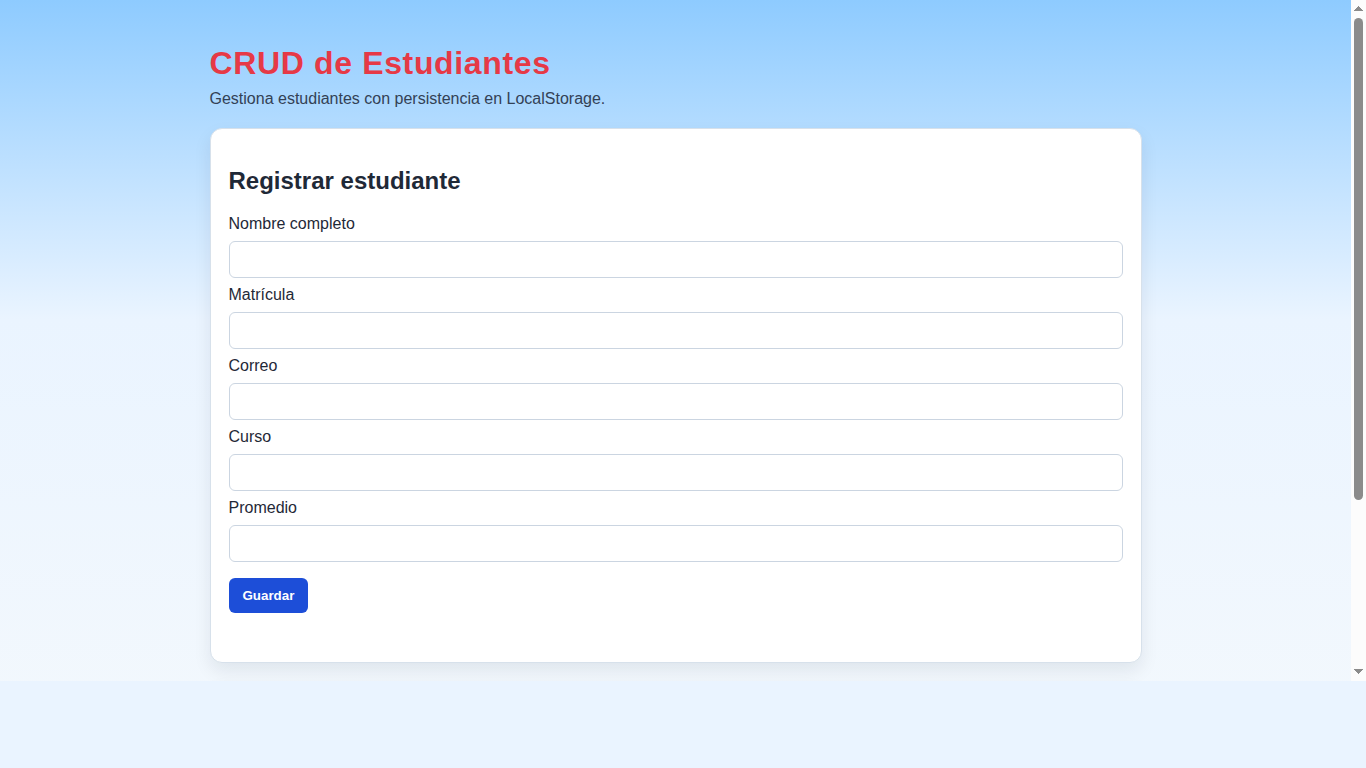
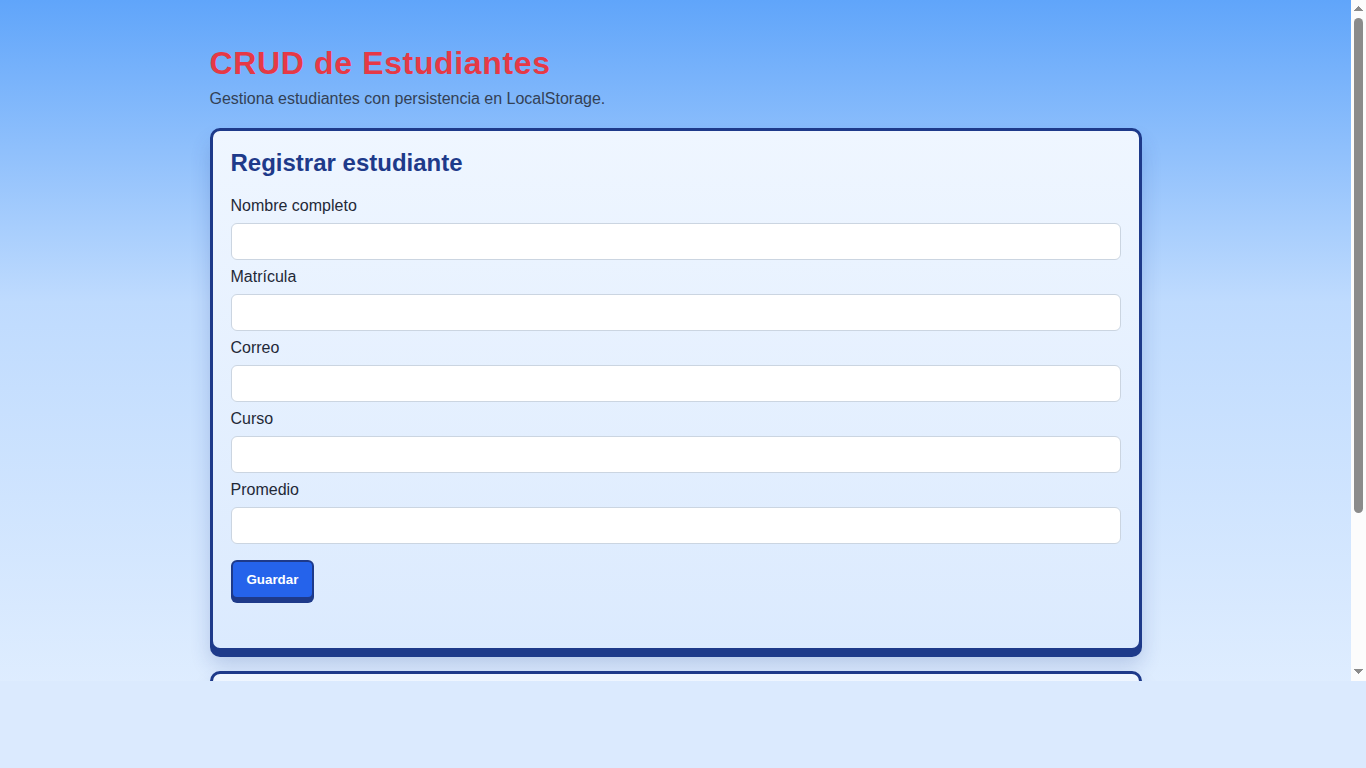
style: mario blocks blue theme and form behavior docs
Agent-Logs-Url: https://github.com/angelOcampoM/CrudTecnologico/sessions/9ce7e6f3-032a-4a75-b50c-0ddae8d89d77

diff --git a/styles.css b/styles.css
@@ -1,11 +1,12 @@
 :root {
   font-family: 'Trebuchet MS', 'Segoe UI', Arial, sans-serif;
   color: #1f2937;
-  background: #eaf4ff;
-  --surface: #ffffff;
-  --line: #d7e1eb;
-  --primary: #1d4ed8;
-  --secondary: #fbbf24;
+  background: #dbeafe;
+  --surface: #eff6ff;
+  --line: #93c5fd;
+  --primary: #2563eb;
+  --primary-deep: #1e3a8a;
+  --secondary: #60a5fa;
   --danger: #e63946;
 }
 
@@ -15,7 +16,7 @@
 
 body {
   margin: 0;
-  background: linear-gradient(180deg, #8ecbff 0%, #eaf4ff 35%, #f7fafc 100%);
+  background: linear-gradient(180deg, #60a5fa 0%, #bfdbfe 34%, #eff6ff 100%);
 }
 
 .container {
@@ -37,12 +38,26 @@ h1 {
 }
 
 .card {
+  position: relative;
   background: var(--surface);
-  border-radius: 12px;
+  border-radius: 10px;
   padding: 18px;
   margin-bottom: 20px;
-  border: 1px solid var(--line);
-  box-shadow: 0 8px 18px rgba(17, 24, 39, 0.08);
+  border: 3px solid var(--primary-deep);
+  box-shadow:
+    0 6px 0 var(--primary-deep),
+    0 14px 20px rgba(30, 58, 138, 0.2);
+  background-image: linear-gradient(180deg, #eff6ff 0%, #dbeafe 100%);
+  transition: transform 0.15s ease;
+}
+
+.card:hover {
+  transform: translateY(-2px);
+}
+
+.card h2 {
+  margin-top: 0;
+  color: var(--primary-deep);
 }
 
 form {
@@ -70,31 +85,45 @@ input:focus {
 }
 
 button {
-  border: 0;
+  border: 2px solid var(--primary-deep);
   border-radius: 6px;
   padding: 10px 14px;
   font-weight: 600;
   color: #fff;
   background: var(--primary);
   cursor: pointer;
-  transition: transform 0.12s ease, filter 0.12s ease;
+  box-shadow: 0 4px 0 var(--primary-deep);
+  transition: transform 0.12s ease, filter 0.12s ease, box-shadow 0.12s ease;
 }
 
 button:hover {
-  filter: brightness(1.05);
+  filter: brightness(1.06);
+  transform: translateY(-1px);
+  box-shadow: 0 5px 0 var(--primary-deep);
 }
 
 button:active {
-  transform: translateY(1px);
+  transform: translateY(2px);
+  box-shadow: 0 2px 0 var(--primary-deep);
 }
 
 button.secondary {
   background: var(--secondary);
-  color: #1f2937;
+  color: #0f172a;
 }
 
 button.warn {
   background: var(--danger);
+  border-color: #7f1d1d;
+  box-shadow: 0 4px 0 #7f1d1d;
+}
+
+button.warn:hover {
+  box-shadow: 0 5px 0 #7f1d1d;
+}
+
+button.warn:active {
+  box-shadow: 0 2px 0 #7f1d1d;
 }
 
 #message {
@@ -116,13 +145,14 @@ button.warn {
 table {
   width: 100%;
   border-collapse: collapse;
-  border: 1px solid var(--line);
+  border: 3px solid var(--primary-deep);
   border-radius: 8px;
   overflow: hidden;
+  background: #f8fbff;
 }
 
 thead {
-  background: #eff6ff;
+  background: #bfdbfe;
 }
 
 th,

diff --git a/README.md b/README.md
@@ -24,6 +24,14 @@ La entidad seleccionada es **Estudiante** y cada registro contiene 5 campos:
 - ✅ Validación de campos obligatorios y rango de promedio (0 a 10)
 - ✅ Mensajes de estado para confirmar acciones
 
+## Diseño y funcionamiento del formulario
+- El formulario está en una tarjeta principal con estilo inspirado en bloques interactivos (estética Mario Bros) y paleta azulada.
+- Los campos del formulario (`nombre`, `matrícula`, `correo`, `curso`, `promedio`) son obligatorios.
+- El botón **Guardar** crea un registro nuevo cuando no hay edición activa.
+- Al pulsar **Editar** en una fila, el formulario carga los datos del estudiante y cambia a modo edición.
+- El botón **Cancelar edición** limpia el formulario y regresa al modo de registro.
+- Los cambios se reflejan de inmediato en la tabla y se guardan en `LocalStorage`.
+
 ## Instrucciones para ejecutar el proyecto
 1. Clonar el repositorio:
    ```bash
